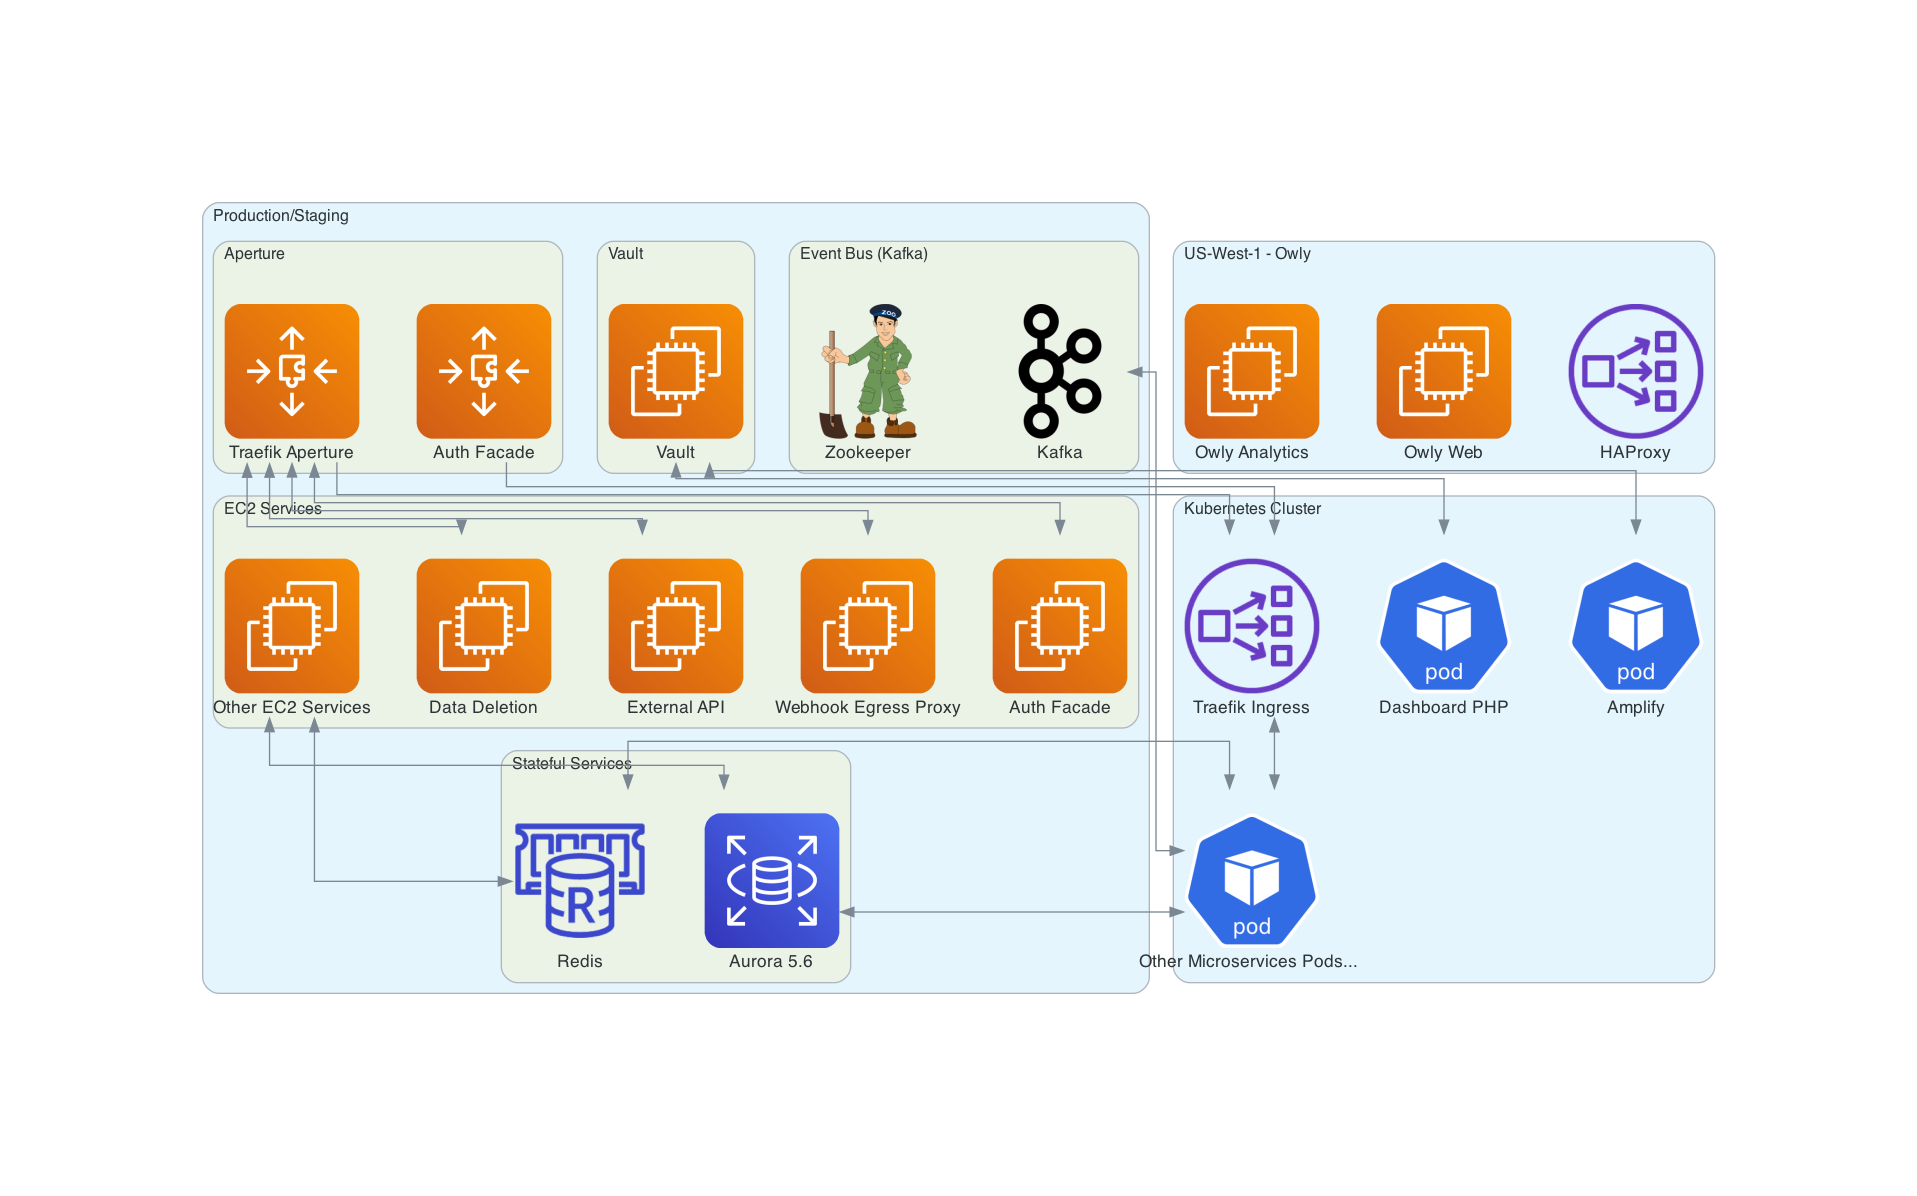
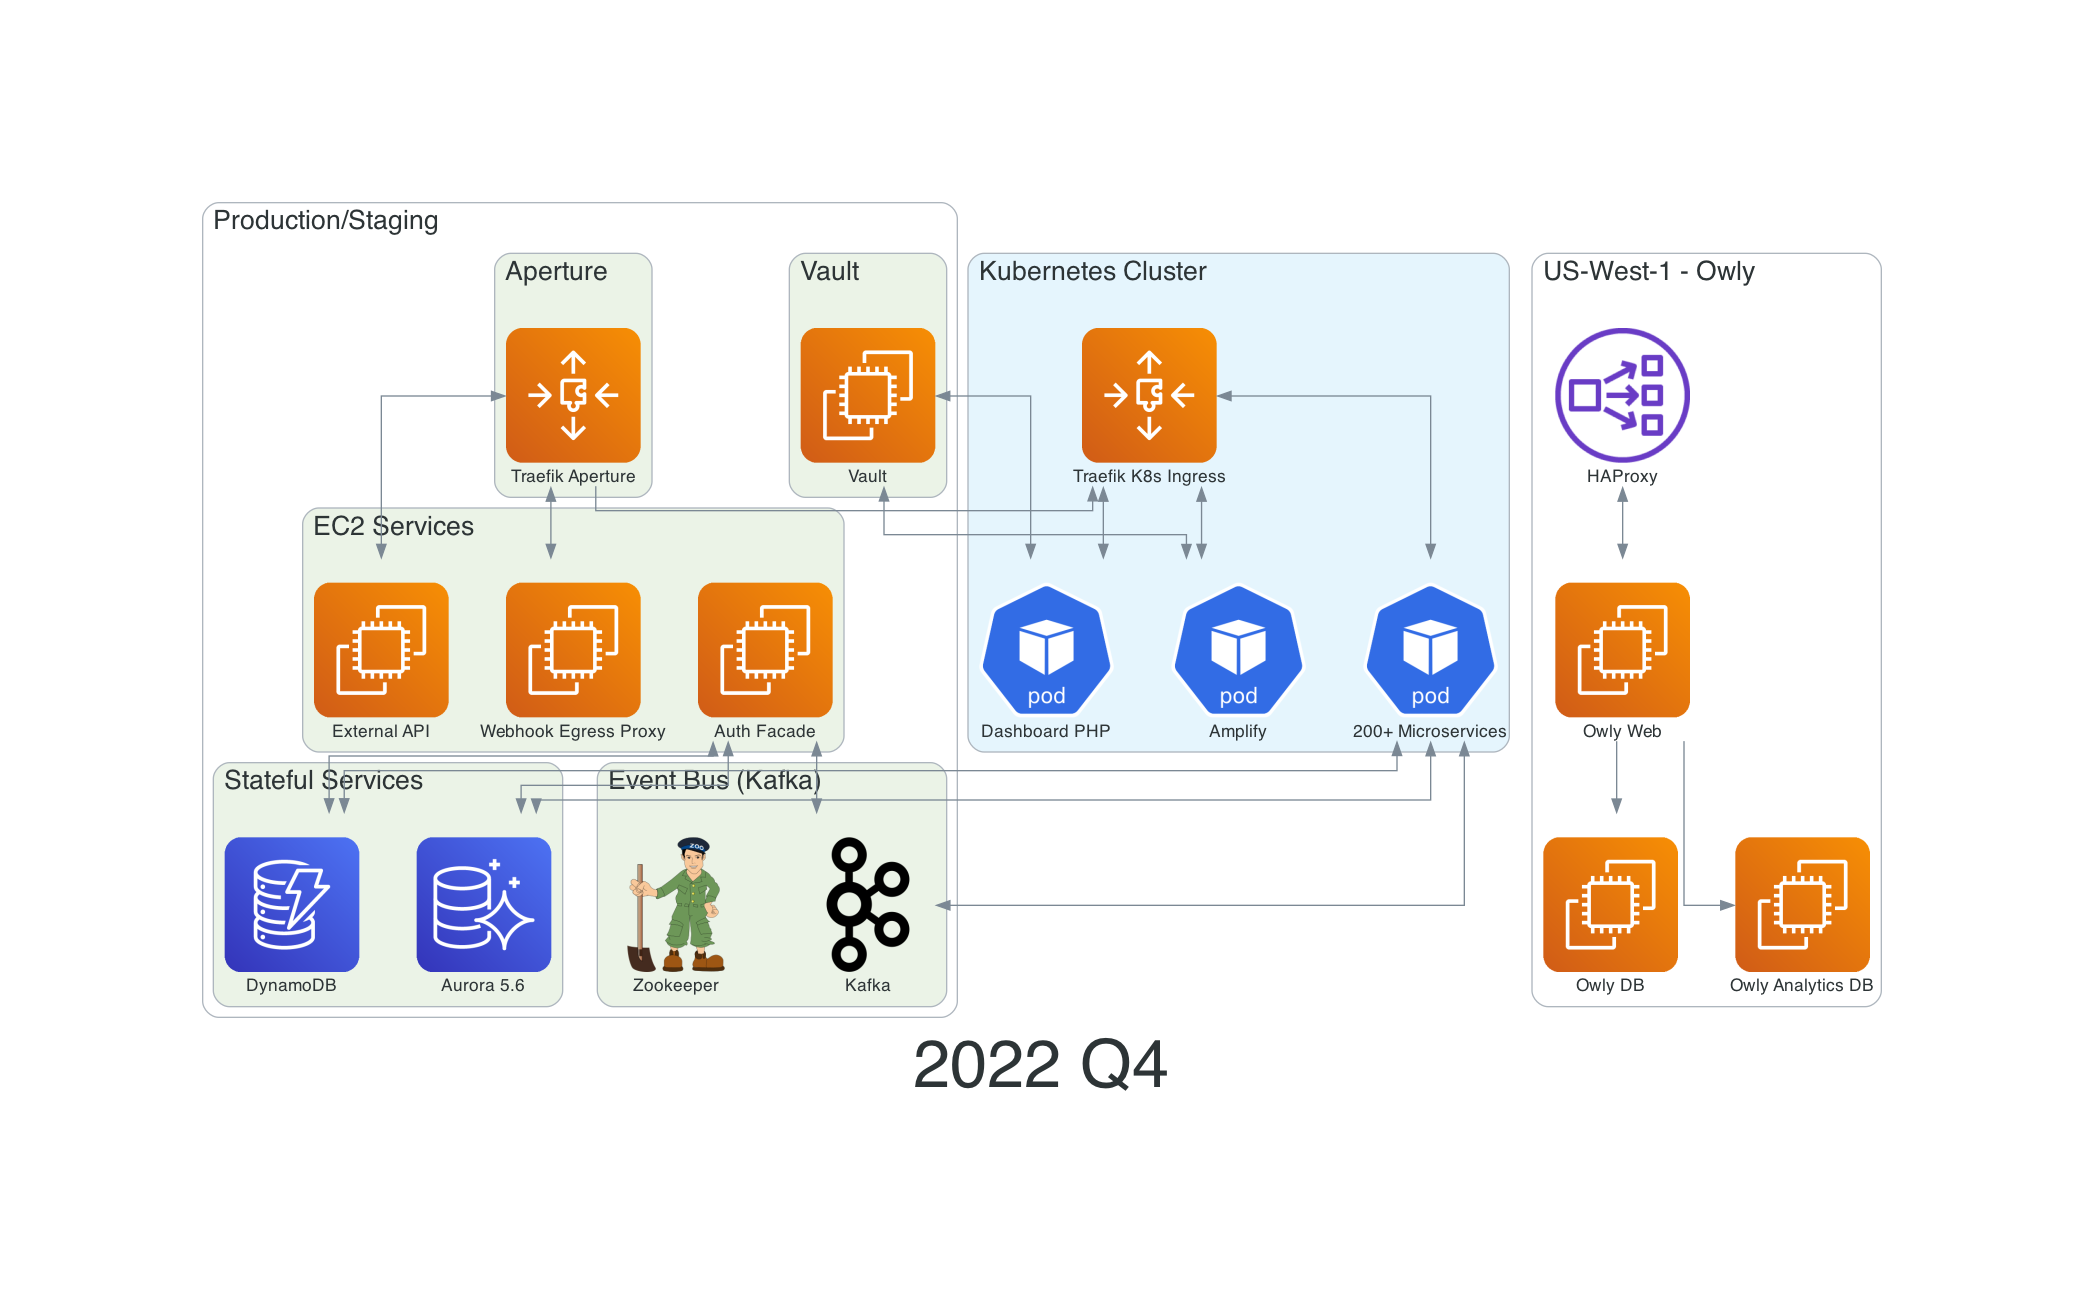
added 2023 Q1 changes

diff --git a/2022Q4.py b/2022Q4.py
@@ -2,10 +2,9 @@
 from xml.sax.xmlreader import AttributesImpl
 from diagrams import Diagram, Cluster, Edge
 
-from diagrams.aws.compute import EC2, AutoScaling, EC2ElasticIpAddress
-from diagrams.aws.database import RDS, Aurora, ElasticacheForRedis
-from diagrams.aws.network import Route53, ALB, NLB, CloudFront
-from diagrams.aws.storage import S3
+from diagrams.aws.compute import EC2, AutoScaling
+from diagrams.aws.database import Aurora, Dynamodb
+from diagrams.aws.network import NLB
 
 from diagrams.k8s.compute import Pod
 from diagrams.onprem.queue import Kafka 
@@ -13,54 +12,56 @@ from diagrams.onprem.network import Zookeeper
 
 
 graph_attr = {
-    "fontsize": "250",
+    "fontsize": "50",
     "bgcolor": "transparent"
 }
 
-with Diagram(filename="2022Q4", show=False, direction="TB", graph_attr=graph_attr, outformat=["png"]):
+with Diagram("2022 Q4", filename="2022Q4", show=False, direction="TB", graph_attr=graph_attr, outformat=["png"]):
 
-    with Cluster(label="Production/Staging", direction="TB", graph_attr={"id": "cluster_production"}):
+    with Cluster(label="Production/Staging", direction="TB", graph_attr={"id": "cluster_production","bgcolor": "white", "fontsize": "20"}):
 
-        with Cluster("Aperture", graph_attr={"id": "cluster_aperture"}):
+        with Cluster("Aperture", graph_attr={"id": "cluster_aperture", "fontsize": "20"}):
             traefik = AutoScaling("Traefik Aperture",
                                 id="ec2_aperture_traefik")
-            authFacade = AutoScaling("Auth Facade", id="ec2_aperture_authfacade")
 
-        with Cluster("EC2 Services", graph_attr={"id": "cluster_ec2"}):
-                EC2Services = [EC2("Auth Facade", id="ec2-AuthFacade"),
-                            EC2("Webhook Egress Proxy", id="ec2-WebhookEgressProxy"),
-                            EC2("External API", id="ec2-ExternalAPI"),
-                            EC2("Data Deletion", id="ec2-DataDeletion")]
-                EC2Other = EC2("Other EC2 Services", id="ec2-other")
+        with Cluster("EC2 Services", graph_attr={"id": "cluster_ec2","fontsize": "20"}):
+            authfacade = EC2("Auth Facade", id="ec2-AuthFacade")
+            EC2Services = [EC2("Webhook Egress Proxy", id="ec2-WebhookEgressProxy"),
+                        EC2("External API", id="ec2-ExternalAPI")]
 
-        with Cluster("Vault"):
+        with Cluster("Vault", graph_attr={"id": "cluster_vault", "fontsize": "20"}):
             vault = EC2("Vault", id="ec2-vault")
 
-        with Cluster("Event Bus (Kafka)", direction="LR", graph_attr={"id": "cluster_kafka"}):
+        with Cluster("Event Bus (Kafka)", direction="LR", graph_attr={"id": "cluster_kafka", "fontsize": "20"}):
             kafka = Kafka("Kafka")
             zookeeper = Zookeeper("Zookeeper")
 
-        with Cluster("Stateful Services", graph_attr={"id": "cluster_data_storage"}):
-            rds = RDS("Aurora 5.6")
-            cache = ElasticacheForRedis("Redis")
-            datastore = [rds, cache]
+        with Cluster("Stateful Services", graph_attr={"id": "cluster_data_storage","fontsize": "20"}):
+            rds = Aurora("Aurora 5.6")
+            dynamo = Dynamodb("DynamoDB")
+            datastore = [rds, dynamo]
 
-    with Cluster("Kubernetes Cluster", direction="TB", graph_attr={"id": "cluster_k8s"}):
-            k8sIngress = NLB("Traefik Ingress")
-            servicePods = [Pod("Dashboard PHP", id="dashboard"), Pod("Amplify", id="amplify")]
-            servicePod = Pod("Other Microservices Pods... ", id="servicePods")
-
-    with Cluster("US-West-1 - Owly", graph_attr={"id": "cluster_owly"}):
+    with Cluster("US-West-1 - Owly", graph_attr={"id": "cluster_owly","bgcolor": "white", "fontsize": "20"}):
         haproxy = NLB("HAProxy", id="haproxy")
         owlyweb = EC2("Owly Web", id="owlyweb")
-        owlydb = EC2("Owly Analytics", id="owly-analytics")
+        owlydb = EC2("Owly DB", id="owly-analytics")
+        owlyAnalytics = EC2("Owly Analytics DB", id="owly-analytics")
+        owly = [owlyAnalytics, owlydb]
+
+    with Cluster("Kubernetes Cluster", direction="TB", graph_attr={"id": "cluster_k8s","fontsize": "20"}):
+            k8sIngress = AutoScaling("Traefik K8s Ingress")
+            servicePods = [Pod("Dashboard PHP", id="dashboard"), Pod("Amplify", id="amplify")]
+            servicePod = Pod("200+ Microservices", id="servicePods")
+
 
 # Path:
     traefik >> k8sIngress
-    authFacade >> k8sIngress
     traefik >> Edge(reverse=True, id="edge_ec2_traefik") >> EC2Services
     servicePod >> Edge(reverse=True) << kafka
     vault >> Edge(reverse=True) << servicePods
-    k8sIngress >> Edge(reverse=True) << servicePod, servicePods
+    k8sIngress >> Edge(reverse=True) << servicePods
+    k8sIngress >> Edge(reverse=True) << servicePod
     servicePod >> Edge(reverse=True, id="edge_datastore") << datastore
-    EC2Other >> Edge(reverse=True, id="edge_ec2other") << datastore 
+    authfacade >> Edge(reverse=True, id="edge_ec2other") << datastore 
+    authfacade >> Edge(reverse=True, id="edge_ec2other") << kafka 
+    haproxy >> Edge(reverse=True, id="edge_kafka") << owlyweb >> owly

diff --git a/2023Q1.py b/2023Q1.py
@@ -2,54 +2,48 @@
 from xml.sax.xmlreader import AttributesImpl
 from diagrams import Diagram, Cluster, Edge
 
-from diagrams.aws.compute import EC2, AutoScaling, ECS, EC2ElasticIpAddress
-from diagrams.aws.database import RDS, Aurora, ElasticacheForRedis, ElasticacheForMemcached
-from diagrams.aws.network import Route53, ALB, NLB, CloudFront
-from diagrams.aws.storage import S3
+from diagrams.aws.compute import ECS
+from diagrams.aws.database import Aurora, Dynamodb
 from diagrams.aws.analytics import ManagedStreamingForKafka
 
 
 from diagrams.k8s.compute import Pod
-from diagrams.onprem.queue import Kafka 
-from diagrams.onprem.network import Zookeeper
-
 
 graph_attr = {
     "fontsize": "60",
     "bgcolor": "transparent"
 }
 
-with Diagram(filename="2023Q1", show=False, direction="TB", graph_attr=graph_attr, outformat=["png"]):
+with Diagram("2023 Q1", filename="2023Q1", show=False, direction="TB", graph_attr=graph_attr, outformat=["png"]):
 
-    with Cluster(label="Production/Staging", direction="TB", graph_attr={"id": "cluster_production"}):
 
-        with Cluster("Stateful Services", graph_attr={"id": "cluster_data_storage"}):
-            rds = RDS("Aurora 5.7")
-            cache = ElasticacheForRedis("Redis")
-            msk = ManagedStreamingForKafka("MSK")
-            datastore = [rds, cache]
-
-        with Cluster("EC2 Services", graph_attr={"id": "cluster_ec2"}):
-                EC2Services = [EC2("External API", id="ec2-ExternalAPI"),
-                            EC2("Data Deletion", id="ec2-DataDeletion")]
+    with Cluster(label="Production/Staging", direction="TB", graph_attr={"id": "cluster_production","bgcolor": "white", "fontsize": "20"}):
 
         with Cluster("Vault"):
             vault = ECS("Vault", id="ec2-vault")
 
-    with Cluster("Kubernetes Cluster", graph_attr={"id": "cluster_k8s"}):
-        with Cluster("Ingress", graph_attr={"id": "cluster_edge_aperture"}):
-            apertureNLB = NLB("Aperture NLB", id="cluster_edge_apertureNLB")
-            traefik = AutoScaling("Aperture Traefik",
-                                id="cluster_edge_traefik")
-            k8sIngress = NLB("Traefik Ingress")
+        with Cluster("Stateful Services", graph_attr={"id": "cluster_data_storage", "fontsize": "20"}):
+            rds = Aurora("Aurora 5.7")
+            dynamo = Dynamodb("DynamoDB")
+            msk = ManagedStreamingForKafka("MSK")
+            datastore = [rds, msk, dynamo]
 
-        servicePods = [Pod("Dashboard PHP", id="dashboard"), Pod("Amplify", id="amplify"), Pod("Owly", id="owlyPod"), Pod("Auth Facade", id="authfacade"), Pod("Webhook Egress Proxy", id="webhookEgressProxy")]
-        servicePod = Pod("Other Microservices Pods... ", id="servicePods")
+    with Cluster("Kubernetes Cluster", graph_attr={"id": "cluster_k8s", "fontsize": "20"}):
+        with Cluster("Ingress", graph_attr={"id": "cluster_edge_aperture"}):
+            traefik = Pod("Traefik Aperture",
+                                id="cluster_edge_traefik")
+            k8sIngress = Pod("Traefik K8s Ingress")
+
+        servicePods = [Pod("Dashboard PHP", id="dashboard"), Pod("Amplify", id="amplify"), Pod("Owly Web", id="owlyPod"), Pod("Auth Facade", id="authfacade"), Pod("Webhook Egress Proxy", id="webhookEgressProxy")]
+        servicePod = Pod("200+ Microservices", id="servicePods")
+
+
 
 # Path:
-    apertureNLB >> Edge(reverse=True, id="cluster_edge") >> traefik >> k8sIngress
-    traefik >> Edge(reverse=True, id="edge_ec2_traefik") >> EC2Services
-    servicePod >> Edge(reverse=True) << msk
     vault >> Edge(reverse=True) << servicePods
-    k8sIngress >> Edge(reverse=True) << servicePods, servicePod
+    servicePod >> Edge(reverse=True, id="edge_datastore") << datastore
+    k8sIngress >> Edge(reverse=True) << servicePods
+    k8sIngress >> Edge(reverse=True) << servicePod
+    traefik >> Edge(reverse=True) << servicePods
+    traefik >> Edge(reverse=True) << servicePod
     servicePod >> Edge(reverse=True, id="edge_datastore") << datastore
